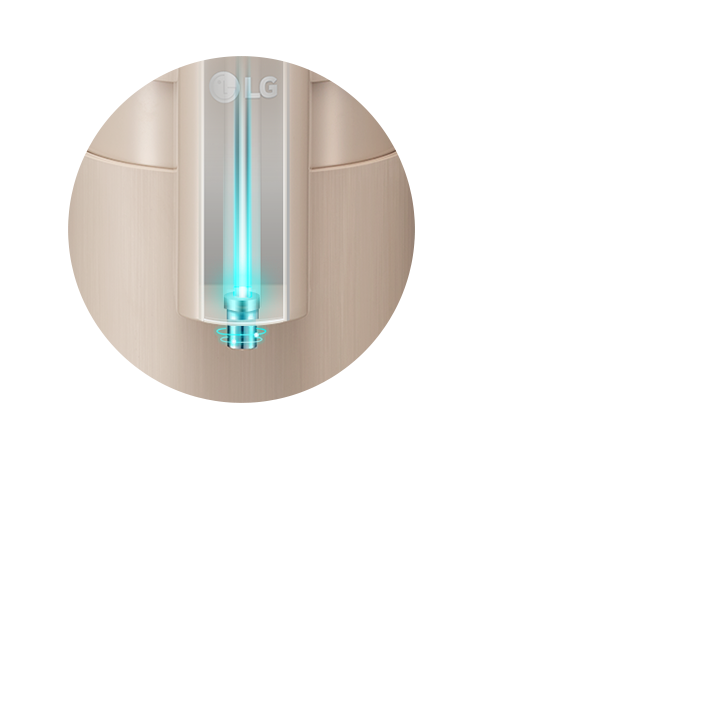
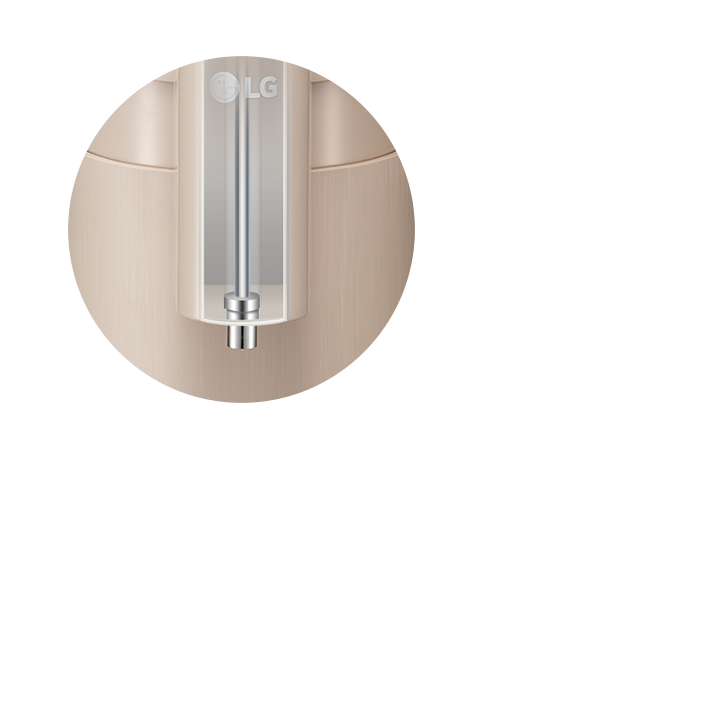
sfsdfdsafsd

Changed region(s): [[0.275, 0.1528, 0.3972, 0.4889]]

diff --git a/images/water-purifiers/md_new/usp/md_new.css b/images/water-purifiers/md_new/usp/md_new.css
@@ -408,18 +408,26 @@
 .water-purifiers_202107 .scene03_2_ani {position:relative;}
 .water-purifiers_202107 .scene03_2_ani li {position:absolute;left:0;top:0;width:100%;}
 .water-purifiers_202107 .scene03_2_ani li:nth-child(2) {transform-origin:33.3% 33.3%;}
+.water-purifiers_202107 .scene03_2_ani li.obj {overflow:hidden;}
+.water-purifiers_202107 .scene03_2_ani li.obj img {position:absolute;left:0;top:0;width:100%;height:100vw;}
 
 /* Active */
 .water-purifiers_202107 .animate.active .scene03_2_ani li:nth-child(1) {animation:fade both 0.6s 0.6s;}
 .water-purifiers_202107 .animate.active .scene03_2_ani li:nth-child(2) {animation:scene03_2_ani both 0.5s 0.6s;}
-.water-purifiers_202107 .animate.active .scene03_2_ani li:nth-child(3) {animation:fade both 0.6s 1.2s;}
-.water-purifiers_202107 .animate.active .scene03_2_ani li:nth-child(4) {animation:fade both 0.6s 1.5s;}
-.water-purifiers_202107 .animate.active .scene03_2_ani li:nth-child(5) {animation:fade both 0.6s 1.8s;}
+.water-purifiers_202107 .animate.active .scene03_2_ani li.obj {animation:scene03_2_ani2 both 3.2s 0.6s;}
+.water-purifiers_202107 .animate.active .scene03_2_ani li:nth-child(4) {animation:fade both 0.6s 1.2s;}
+.water-purifiers_202107 .animate.active .scene03_2_ani li:nth-child(5) {animation:fade both 0.6s 1.5s;}
+.water-purifiers_202107 .animate.active .scene03_2_ani li:nth-child(6) {animation:fade both 0.6s 1.8s;}
 
 /* Animation */
 @keyframes scene03_2_ani {
 0% {opacity:0;transform:scale(0.85);}
 100% {opacity:1;transform:scale(1);}
+}
+@keyframes scene03_2_ani2 {
+0% {height:0%;opacity:0}
+70% {opacity:1;}
+100% {height:100%;opacity:1;}
 }
 
 

diff --git a/images/water-purifiers/md_new/usp/md_new_local.html b/images/water-purifiers/md_new/usp/md_new_local.html
@@ -272,6 +272,7 @@
 						<ul>
 							<li><img src="./img_scene03_2_obj1_m.png" alt=""></li>
 							<li><img src="./img_scene03_2_obj2_m.png" alt=""></li>
+							<li class="obj"><img src="./img_scene03_2_obj22_m.png" alt=""></li>
 							<li><img src="./img_scene03_2_obj31_m.png" alt=""></li>
 							<li><img src="./img_scene03_2_obj32_m.png" alt=""></li>
 							<li><img src="./img_scene03_2_obj33_m.png" alt=""></li>

diff --git a/images/water-purifiers/md_new/usp/md_new.js b/images/water-purifiers/md_new/usp/md_new.js
@@ -109,6 +109,7 @@ $(function(){
 	slideStepSlider();
 	
 	$(window).on("resize", function(){
+		$('.scene03_2_ani li.obj img').css('height', $(window).innerWidth());
 		$('.scene03_3_ani .obj img').css('width', $(window).innerWidth());
 	}).trigger('resize');
 
